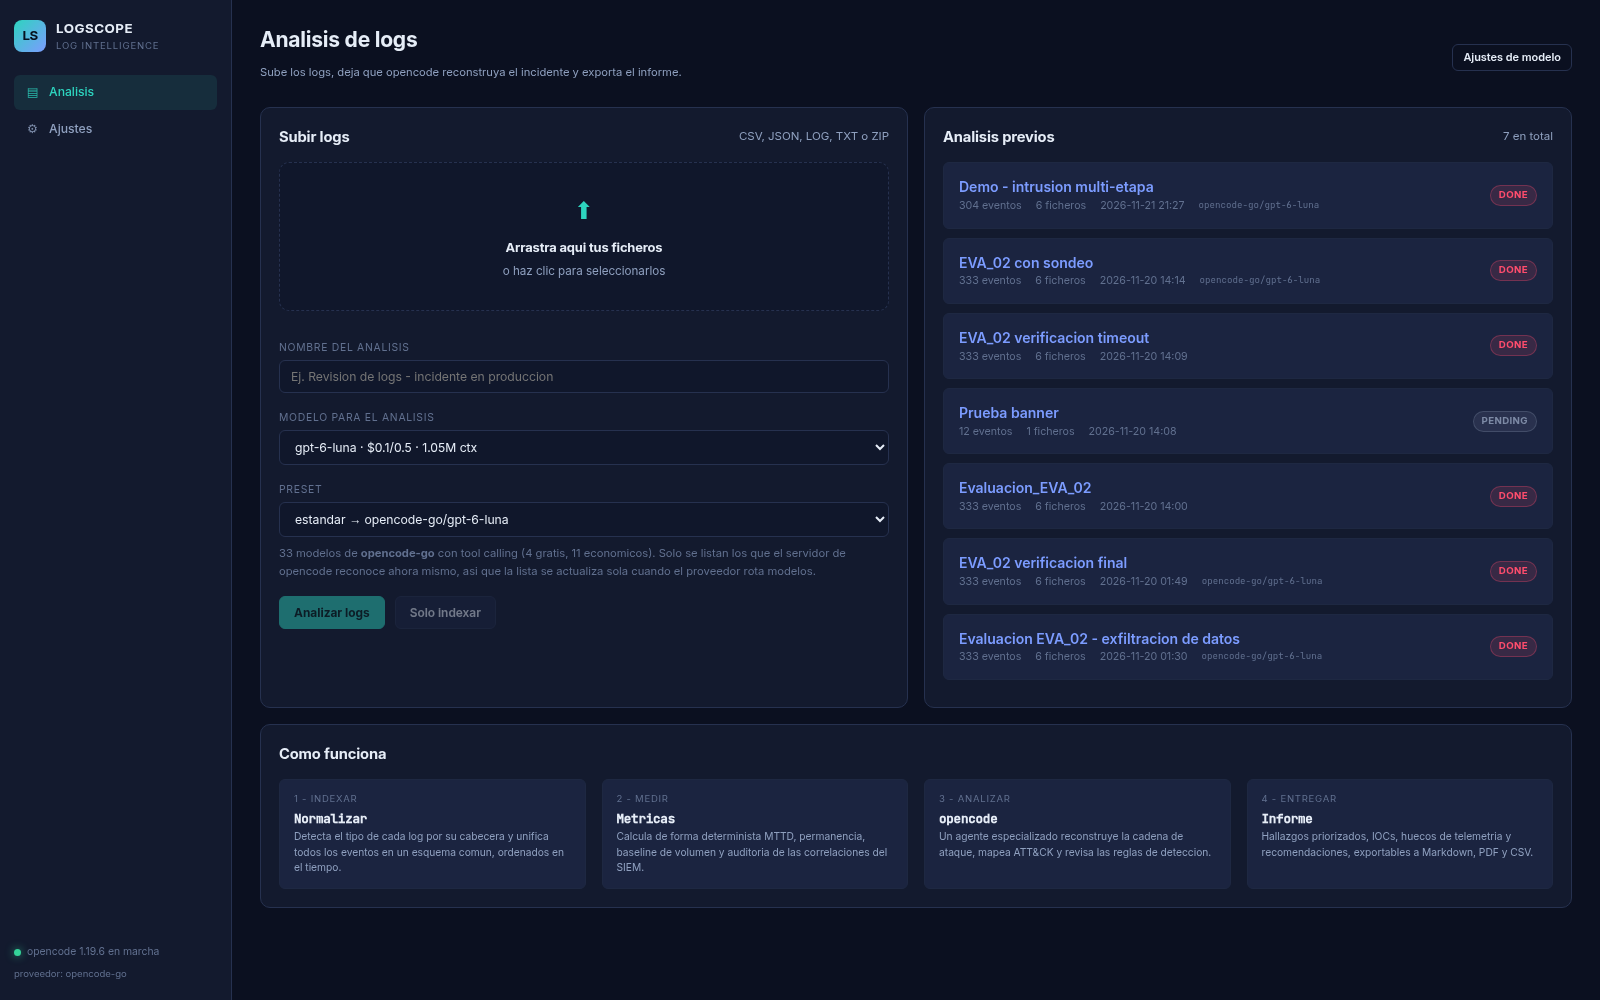
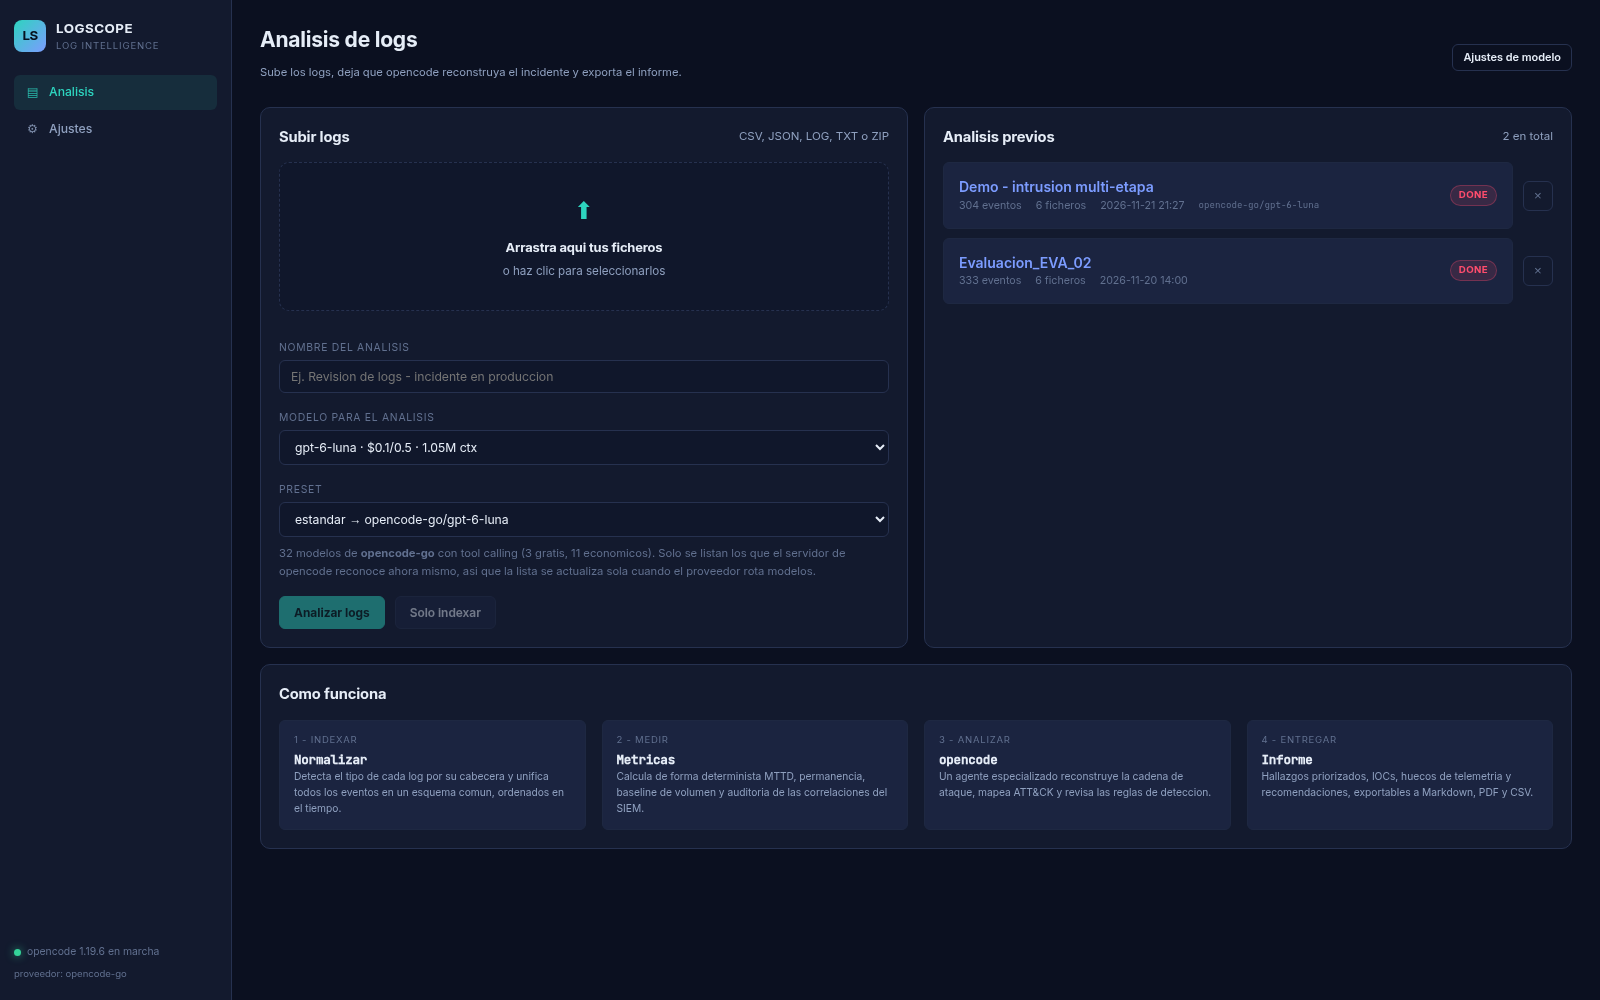
Anade el boton de eliminar analisis y blinda la captura de pantallas
No existia forma de borrar un analisis desde la interfaz, de modo que los
espacios de trabajo se acumulaban y era imposible limpiar el panel.

- DELETE /api/analysis/{id}: elimina el directorio completo del analisis
  (logs, metricas, informe y exportaciones) y cancela la ejecucion en
  curso. Valida que la ruta este dentro del directorio de workspaces.
- Boton "Eliminar" en la cabecera de la pagina de analisis, con
  confirmacion explicita y aviso de que no se puede deshacer.
- Boton de eliminar por fila en la lista de la portada, que retira la
  fila sin recargar.
- scripts/screenshots.sh elige por defecto el analisis de demostracion
  (nombre iniciado por "Demo") y ya no el mas reciente: las capturas del
  README son publicas y no deben contener datos de un caso real. Se
  avisa y se da el comando para generarlo si no existe.

diff --git a/templates/index.html b/templates/index.html
@@ -62,18 +62,22 @@
     </div>
     <div id="analyses-list">
       {% for item in analyses %}
-      <a class="analysis-card" href="/analysis/{{ item.id }}">
-        <div>
-          <div style="font-weight:600">{{ item.name }}</div>
-          <div class="meta">
-            <span>{{ item.events }} eventos</span>
-            <span>{{ item.files }} ficheros</span>
-            <span>{{ item.created_at[:16].replace('T', ' ') }}</span>
-            {% if item.model %}<span class="mono">{{ item.model }}</span>{% endif %}
+      <div class="analysis-row">
+        <a class="analysis-card" href="/analysis/{{ item.id }}">
+          <div>
+            <div style="font-weight:600">{{ item.name }}</div>
+            <div class="meta">
+              <span>{{ item.events }} eventos</span>
+              <span>{{ item.files }} ficheros</span>
+              <span>{{ item.created_at[:16].replace('T', ' ') }}</span>
+              {% if item.model %}<span class="mono">{{ item.model }}</span>{% endif %}
+            </div>
           </div>
-        </div>
-        <span class="badge {{ item.severity }}">{{ item.status }}</span>
-      </a>
+          <span class="badge {{ item.severity }}">{{ item.status }}</span>
+        </a>
+        <button class="icon-btn" data-delete="{{ item.id }}"
+                data-name="{{ item.name }}" title="Eliminar {{ item.name }}">&times;</button>
+      </div>
       {% else %}
       <div class="empty">
         Todavia no hay analisis.<br>Sube un conjunto de logs para empezar.

diff --git a/static/js/index.js b/static/js/index.js
@@ -138,6 +138,38 @@ function wire() {
       if ([...select.options].some((o) => o.value === preset.model)) select.value = preset.model;
     }
   });
+
+  // Eliminar un analisis desde la lista.
+  document.querySelectorAll('[data-delete]').forEach((button) => {
+    button.addEventListener('click', async (event) => {
+      event.preventDefault();
+      event.stopPropagation();
+      const id = button.dataset.delete;
+      const name = button.dataset.name || id;
+      const confirmado = window.confirm(
+        `¿Eliminar el análisis "${name}"?\n\n` +
+        `Se borrarán de forma permanente los logs cargados, las métricas, ` +
+        `el informe y los archivos exportados.`
+      );
+      if (!confirmado) return;
+      button.disabled = true;
+      try {
+        await LS.api(`/api/analysis/${id}`, { method: 'DELETE' });
+        button.closest('.analysis-row')?.remove();
+        const restante = document.querySelectorAll('.analysis-row').length;
+        if (!restante) {
+          const lista = document.getElementById('analyses-list');
+          if (lista) {
+            lista.innerHTML =
+              '<div class="empty">Todavia no hay analisis.<br>Sube un conjunto de logs para empezar.</div>';
+          }
+        }
+      } catch (err) {
+        button.disabled = false;
+        window.alert(`No se pudo eliminar: ${err.message}`);
+      }
+    });
+  });
 }
 
 loadCatalog().then(wire);

diff --git a/static/css/theme.css b/static/css/theme.css
@@ -171,6 +171,20 @@ code, .mono { font-family: var(--mono); font-size: .86em; }
 .btn-ghost { background: transparent; }
 .btn-sm { padding: 4px 10px; font-size: .78rem; }
 .btn-danger:hover:not(:disabled) { border-color: var(--critical); color: var(--critical); }
+.btn-danger:disabled { opacity: .45; cursor: not-allowed; }
+
+/* Boton de eliminar en la lista de analisis */
+.analysis-row { display: flex; align-items: center; gap: 10px; }
+.analysis-row .analysis-card { flex: 1; margin-bottom: 0; }
+.analysis-row + .analysis-row { margin-top: 9px; }
+.icon-btn {
+  width: 30px; height: 30px; flex: 0 0 30px;
+  display: grid; place-items: center;
+  background: transparent; border: 1px solid var(--border);
+  border-radius: var(--radius-sm); color: var(--text-faint);
+  cursor: pointer; font-size: .95rem; line-height: 1;
+}
+.icon-btn:hover { border-color: var(--critical); color: var(--critical); background: rgba(255, 77, 109, .08); }
 
 /* --------------------------------------------------------------- inputs */
 label.field { display: block; font-size: .74rem; text-transform: uppercase; letter-spacing: .07em; color: var(--text-faint); margin-bottom: 5px; }

diff --git a/static/js/analysis.js b/static/js/analysis.js
@@ -480,6 +480,27 @@ function wire() {
   document.getElementById('chat-text').addEventListener('keydown', (event) => {
     if (event.key === 'Enter' && (event.ctrlKey || event.metaKey)) sendChat();
   });
+
+  const deleteButton = document.getElementById('delete-btn');
+  if (deleteButton) {
+    deleteButton.addEventListener('click', async () => {
+      const name = document.querySelector('h1')?.textContent?.trim() || analysisId;
+      const confirmado = window.confirm(
+        `¿Eliminar el análisis "${name}"?\n\n` +
+        `Se borrarán de forma permanente los logs cargados, las métricas, ` +
+        `el informe y los archivos exportados. Esta acción no se puede deshacer.`
+      );
+      if (!confirmado) return;
+      deleteButton.disabled = true;
+      try {
+        await LS.api(`/api/analysis/${analysisId}`, { method: 'DELETE' });
+        window.location.href = '/';
+      } catch (err) {
+        deleteButton.disabled = false;
+        window.alert(`No se pudo eliminar: ${err.message}`);
+      }
+    });
+  }
 }
 
 boot().catch((err) => {

diff --git a/templates/analysis.html b/templates/analysis.html
@@ -26,6 +26,7 @@
     <a class="btn btn-ghost" href="/api/analysis/{{ meta.id }}/export/events.csv">Eventos CSV</a>
     <a class="btn btn-ghost" href="/api/analysis/{{ meta.id }}/export/findings.csv">Hallazgos CSV</a>
     <a class="btn btn-ghost" id="export-md-report" href="/analysis/{{ meta.id }}/report">Informe</a>
+    <button class="btn btn-ghost btn-danger" id="delete-btn" title="Eliminar este analisis">Eliminar</button>
   </div>
 </div>
 

diff --git a/server/main.py b/server/main.py
@@ -404,6 +404,27 @@ async def api_upload(files: list[UploadFile] = File(...), name: str = Form("")) 
 # ---------------------------------------------------------------------------
 # API - consulta
 # ---------------------------------------------------------------------------
+@app.delete("/api/analysis/{analysis_id}")
+async def api_delete_analysis(analysis_id: str) -> dict[str, Any]:
+    """Elimina por completo un analisis: logs, metricas e informe."""
+    root = workspace_path(analysis_id)
+    if not root.exists():
+        raise HTTPException(status_code=404, detail="Analisis no encontrado")
+    if not root.is_dir() or root.parent != settings.workspaces_dir:
+        raise HTTPException(status_code=400, detail="Ruta de analisis no valida")
+
+    run = RUNS.pop(analysis_id, None)
+    if run and run.task and not run.task.done():
+        run.task.cancel()
+
+    try:
+        shutil.rmtree(root)
+    except OSError as exc:
+        raise HTTPException(status_code=500, detail=f"No se pudo eliminar: {exc}") from exc
+
+    return {"ok": True, "deleted": analysis_id}
+
+
 @app.get("/api/analysis/{analysis_id}")
 async def api_analysis(analysis_id: str) -> dict[str, Any]:
     root = workspace_path(analysis_id)
